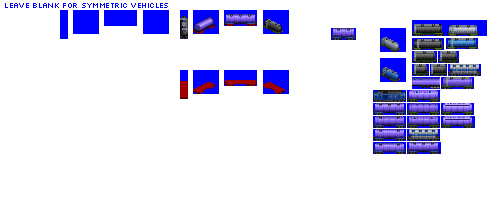
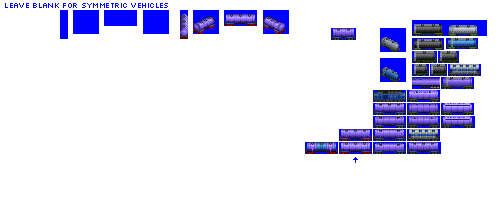
Change: sprites for gen 4C tank car

Changed region(s): [[0.36, 0.33, 0.6, 0.51], [0.6, 0.63, 0.75, 0.81], [0.36, 0.06, 0.57, 0.21]]

diff --git a/src/vehicles/tank_cars.py b/src/vehicles/tank_cars.py
@@ -80,7 +80,8 @@ def main():
     consist = TankCarConsist(roster='pony',
                              base_numeric_id=1250,
                              gen=4,
-                             subtype='C')
+                             subtype='C',
+                             sprites_complete=True)
 
     consist.add_unit(type=FreightCar,
                      vehicle_length=8,
